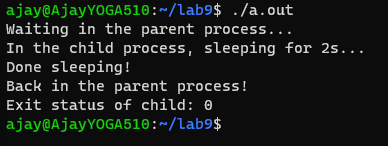
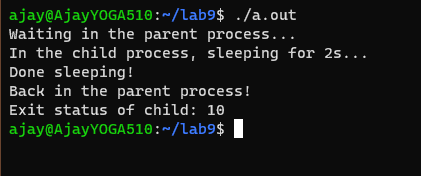
Add files via upload

Changed region(s): [[0.0, 0.0274, 0.8969, 0.9041]]

diff --git a/lab9/parentwait.c b/lab9/parentwait.c
@@ -1,4 +1,5 @@
 #include <stdio.h>
+#include <stdlib.h>
 #include <unistd.h>
 #include <sys/wait.h>
 
@@ -9,6 +10,7 @@ int main() {
 		printf("In the child process, sleeping for 2s...\n");
 		sleep(2);
 		printf("Done sleeping!\n");
+		exit(10);
 	} else {
 		printf("Waiting in the parent process...\n");
 		wait(&wstatus);
